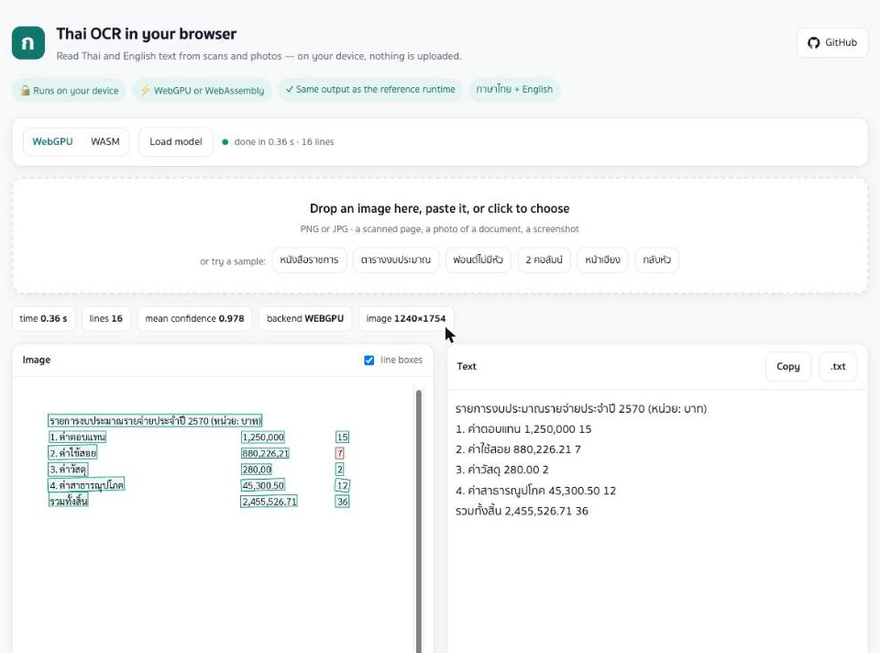
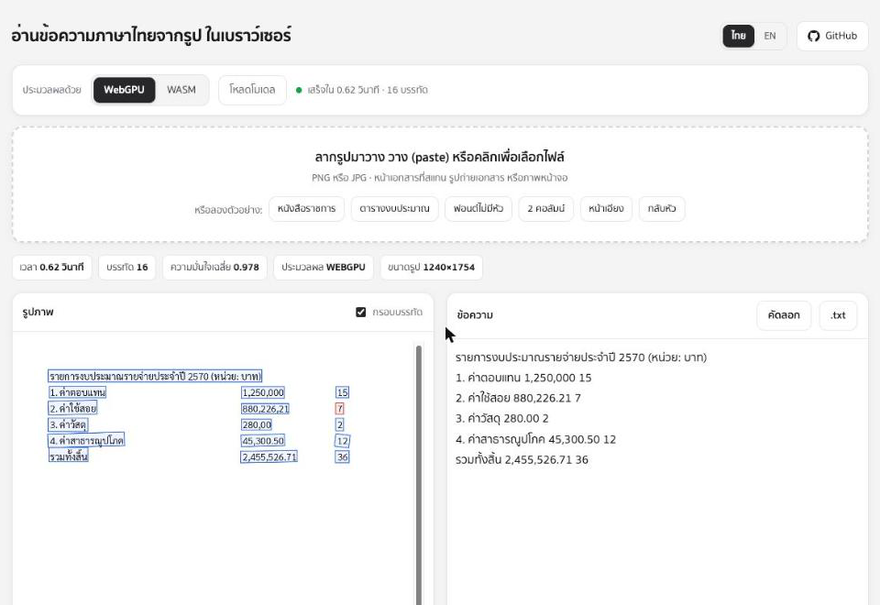
README: new demo GIF and screenshot of the current UI
Recorded on a Mac mini in Edge with WebGPU: Thai UI reading the government letter, the budget table, the
two-column article and the loopless-font page (0.14–0.73 s a page).

Claude-Session: https://claude.ai/code/session_01BMx218gtNE29wKvJLPmnFG

diff --git a/README.md b/README.md
@@ -10,7 +10,7 @@ WebGPU or WebAssembly · nothing is uploaded · works offline once loaded
 [![License: Apache-2.0](https://img.shields.io/badge/license-Apache--2.0-blue)](LICENSE)
 ![Models 6.6 MB](https://img.shields.io/badge/models-6.6_MB-555)
 
-<a href="https://thai-ocr-web.pages.dev/"><img src="docs/demo.gif" width="760" alt="Reading a Thai government letter, a budget table and a two-column article in the browser, about 0.4 s a page"></a>
+<a href="https://thai-ocr-web.pages.dev/"><img src="docs/demo.gif" width="760" alt="The demo in Thai reading a government letter, a budget table, a two-column article and a loopless font with WebGPU, 0.1–0.7 s a page"></a>
 
 **[Try it now →](https://thai-ocr-web.pages.dev/)** &nbsp;·&nbsp; [ภาษาไทย](#ภาษาไทย)
 
